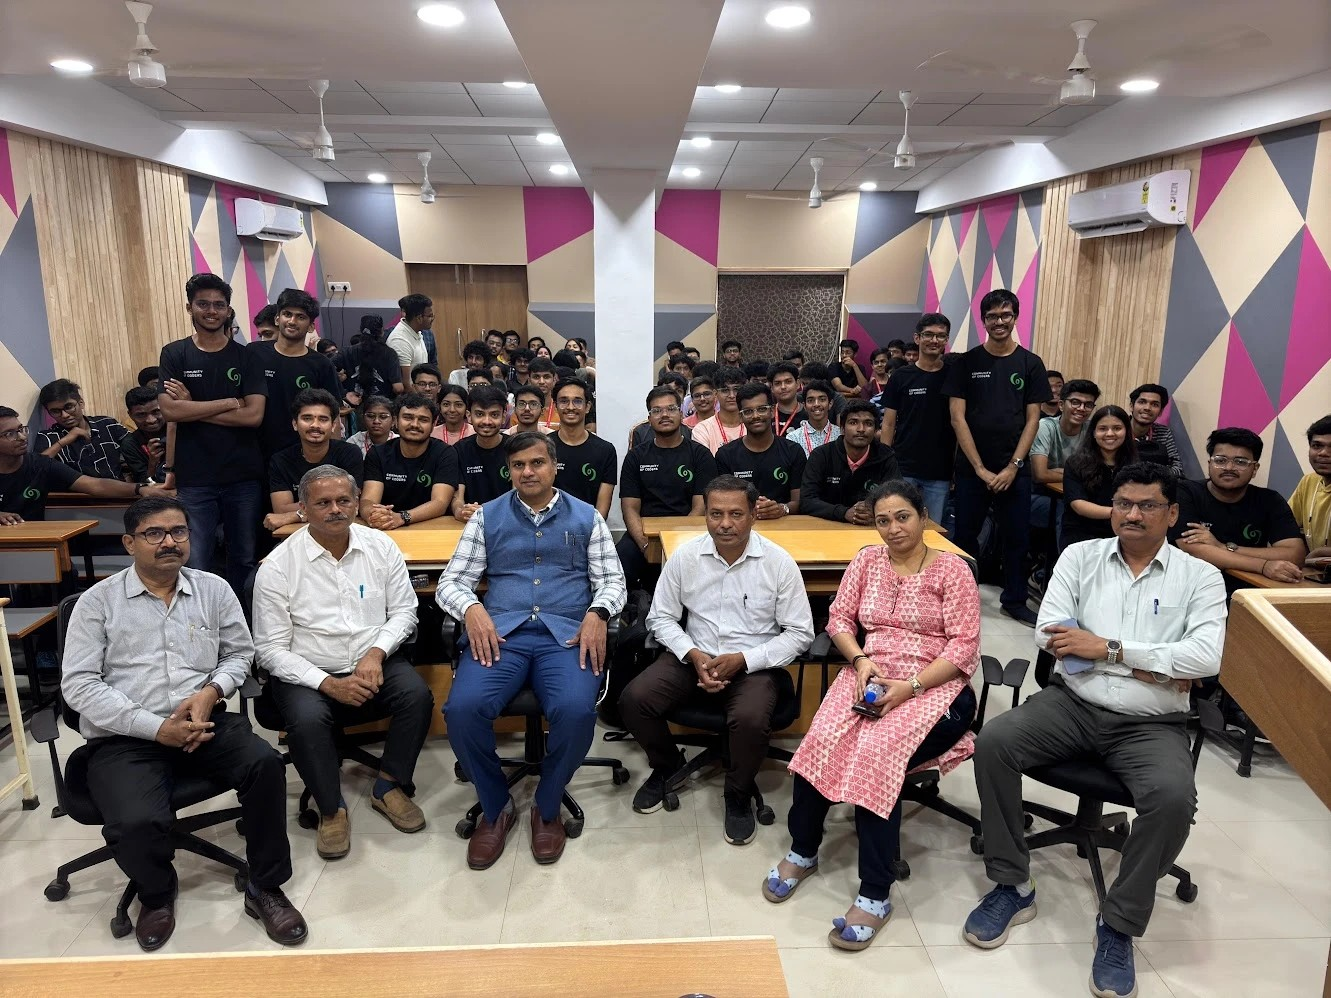
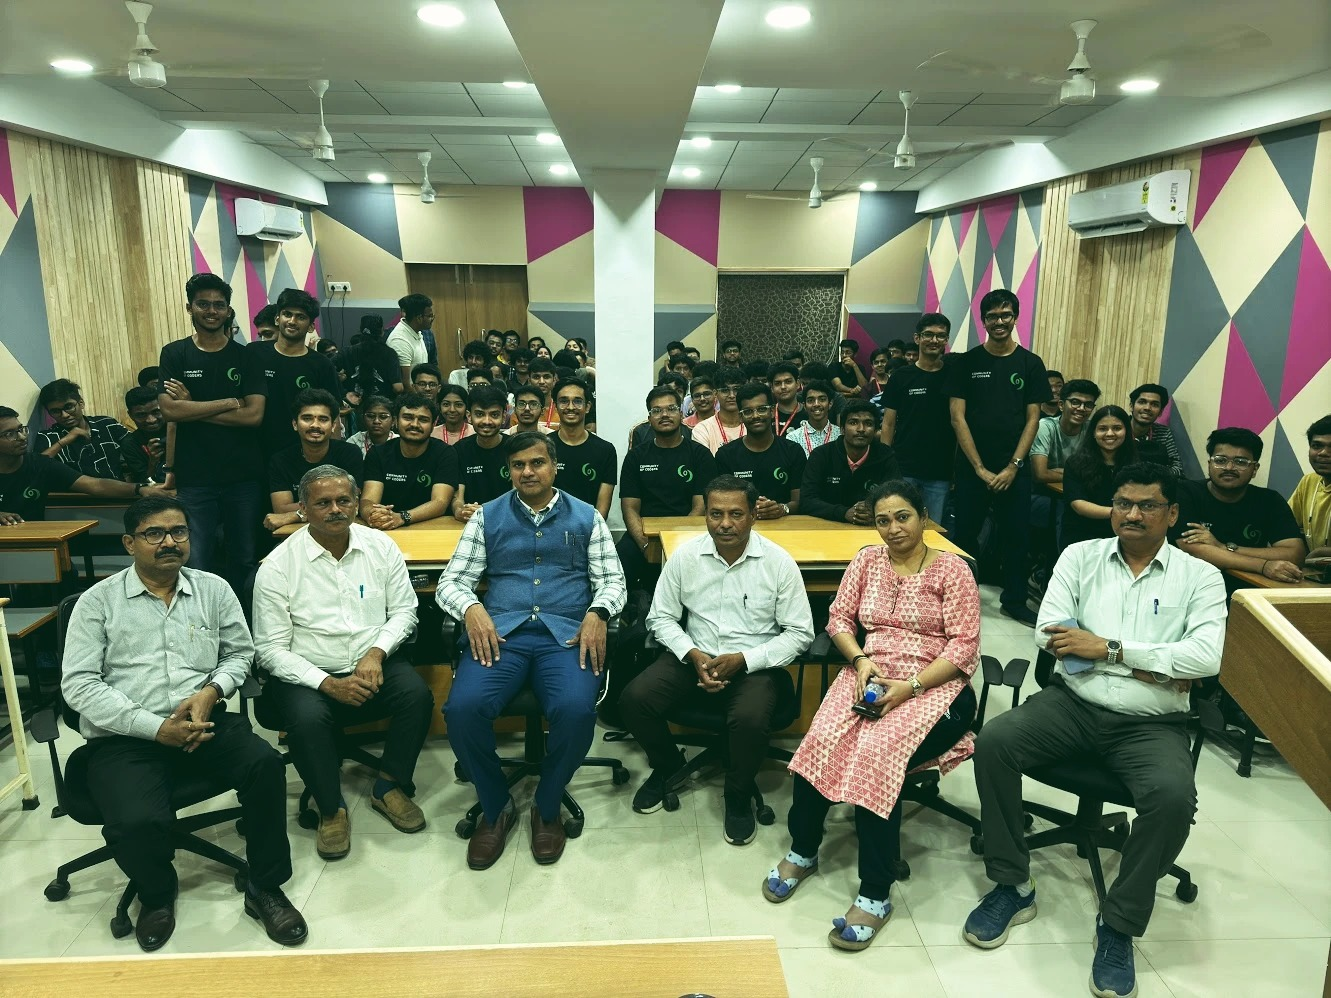
add effects to the pic

diff --git a/src/components/home/PhotoBand.tsx b/src/components/home/PhotoBand.tsx
@@ -19,6 +19,8 @@ const PhotoBand: React.FC = () => {
   );
   const y = useTransform(scrollYProgress, [0, 1], ['-9%', '9%']);
   const scale = useTransform(scrollYProgress, [0, 0.5], [1.12, 1]);
+  /* green halftone print that dissolves into the real colours as the frame opens */
+  const print = useTransform(scrollYProgress, [0.08, 0.4], [1, 0]);
 
   return (
     <section className="band" ref={ref}>
@@ -30,6 +32,16 @@ const PhotoBand: React.FC = () => {
             style={reduce ? { objectPosition: '50% 62%' } : { y, scale, objectPosition: '50% 62%' }}
             loading="lazy"
           />
+          {!reduce && (
+            <motion.img
+              className="band__print"
+              src="/photos/2025/codeverse-band-halftone.jpg"
+              alt=""
+              aria-hidden="true"
+              style={{ y, scale, opacity: print, objectPosition: '50% 62%' }}
+              loading="lazy"
+            />
+          )}
           <div className="band__shade" aria-hidden />
           <p className="band__cap">
             <span>The beginning, CODEVERSE 2025</span>

diff --git a/src/pages/Home.css b/src/pages/Home.css
@@ -531,6 +531,7 @@
   object-fit: cover;
   will-change: transform;
 }
+.band__frame .band__print { position: absolute; left: 0; top: 0; pointer-events: none; }
 .band__shade {
   position: absolute;
   inset: 0;
